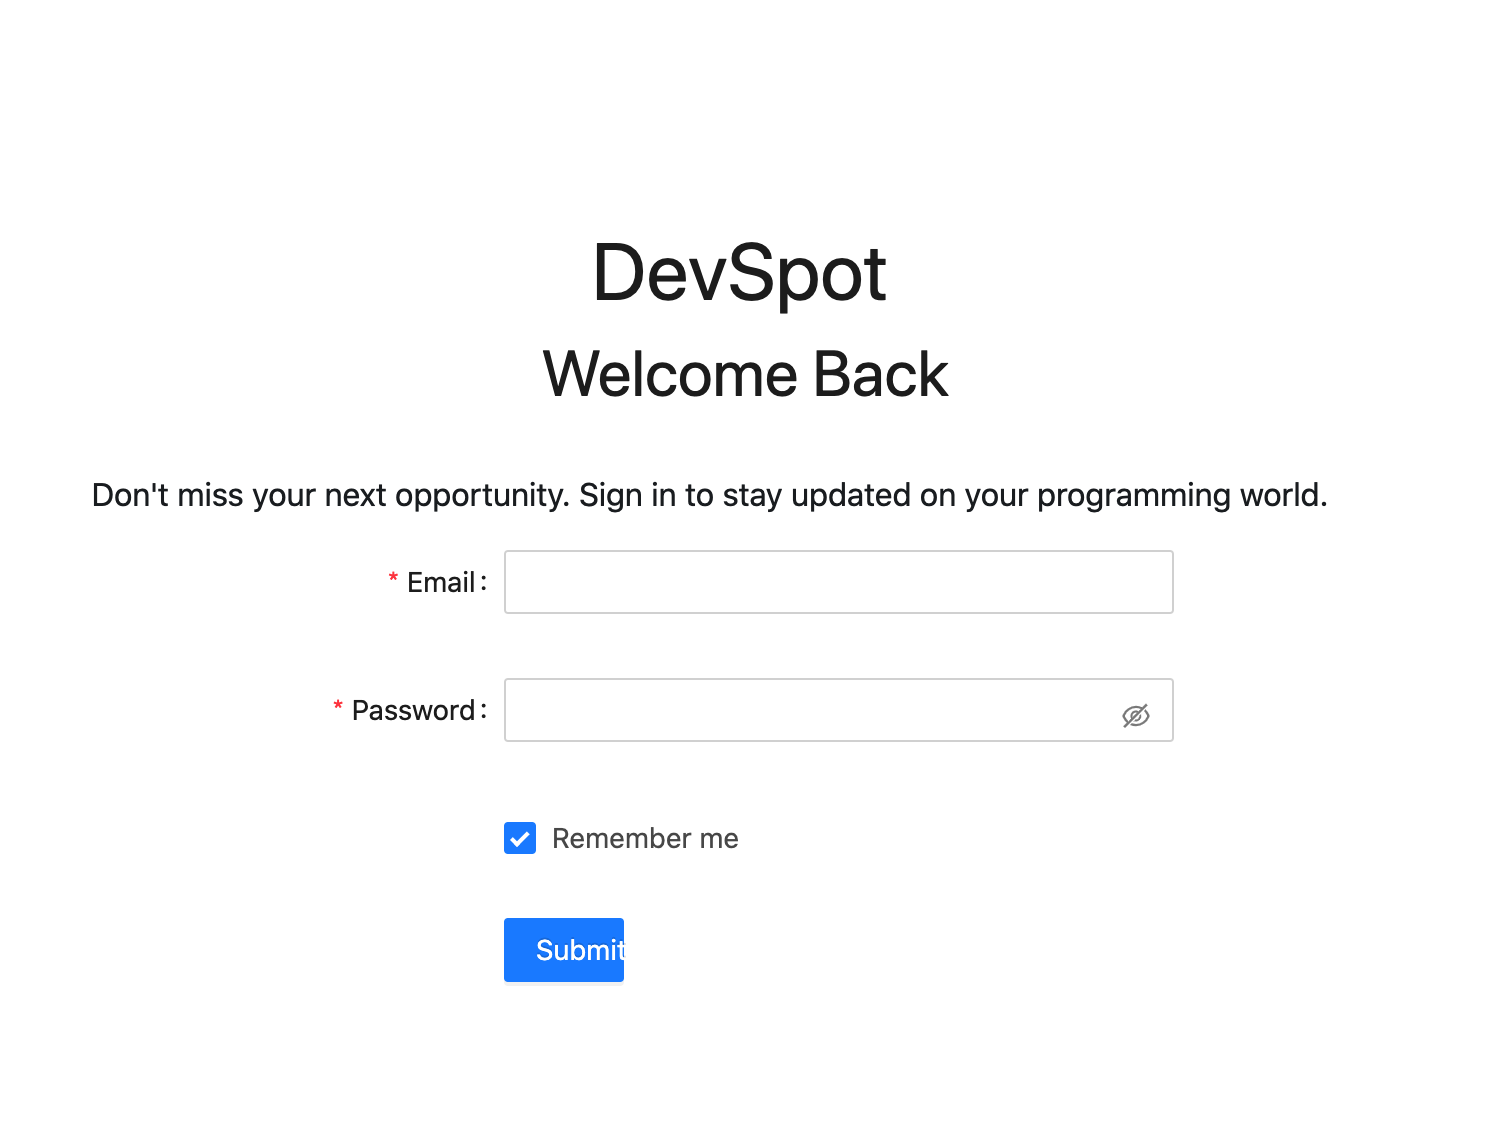
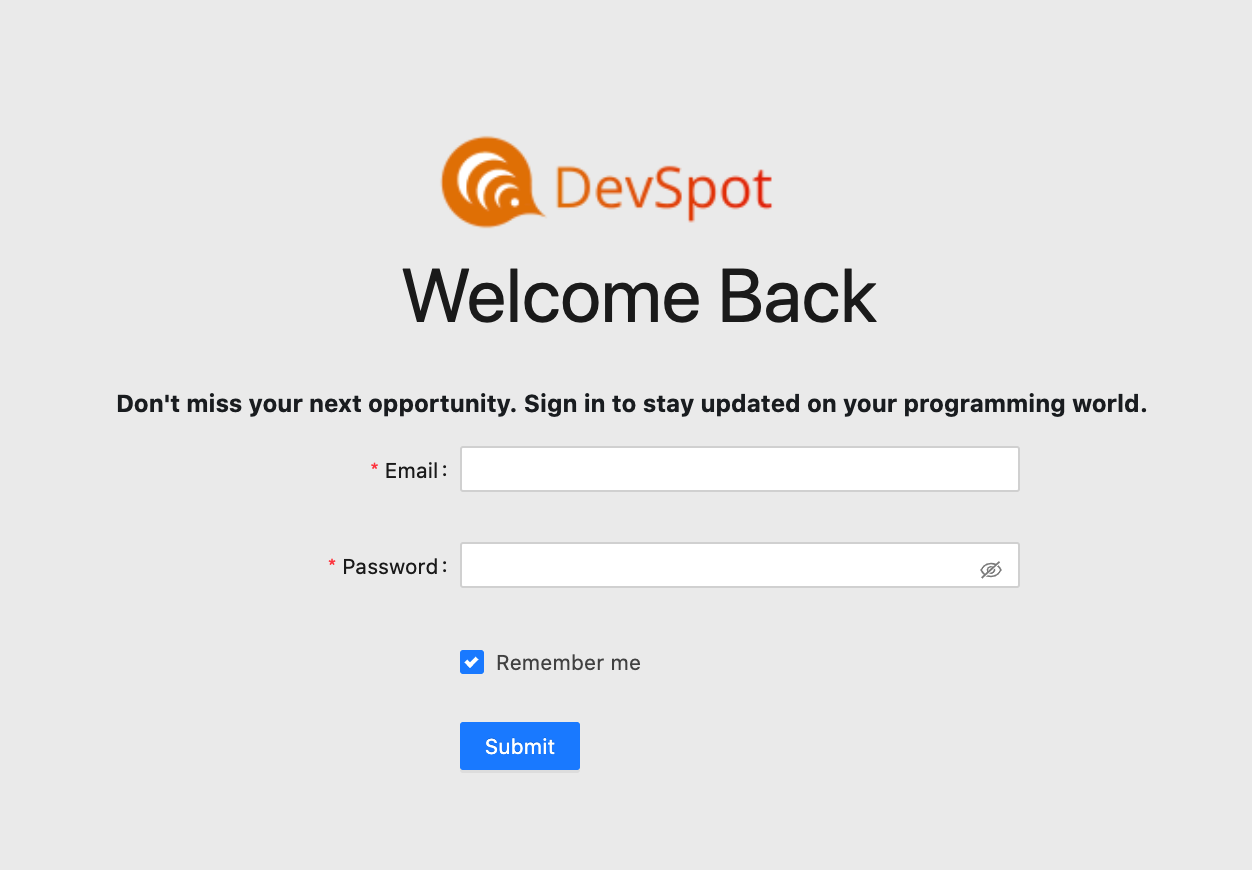
new

diff --git a/src/Component/HomePage/CSS/Overall.css b/src/Component/HomePage/CSS/Overall.css
@@ -2,14 +2,14 @@
   color: black;
 }
 .backgroundResume {
-  background-color: darkslategrey;
+  background-color: #7aa5d2;
   width: 100vw;
   max-height: 1800px;
 }
 .Resume {
   padding-top: 60px;
   font-size: -webkit-xxx-large;
-  color: rgb(255, 7, 110);
+  color: #47555e;
 }
 
 #card-image {
@@ -24,11 +24,19 @@
 #card-text {
   grid-area: text;
   justify-content: center;
+  font-size: 15px;
+}
+
+#card-text li {
+  grid-area: text;
+  text-align: left;
+  padding-right: 10px;
+  font-size: 16px;
 }
 
 #card-text #date {
-  color: rgb(255, 7, 110);
-  font-size: 13px;
+  color: #303841;
+  font-size: 18px;
 }
 
 #card-text p {
@@ -40,6 +48,8 @@
 #card-text h2 {
   margin-top: 5px;
   font-size: 28px;
+  color: #303841;
+  font-weight: bolder;
 }
 
 .allCards:hover {
@@ -50,7 +60,8 @@
 .Company {
   font-size: larger;
   font-weight: bolder;
-  color: rgb(255, 7, 110);
+  color: #303841;
+  padding-top: 30px;
 }
 
 .allCards {
@@ -62,22 +73,24 @@
 
   font-family: roboto;
   border-radius: 18px;
-  background: white;
+  background: #eeeeee;
   box-shadow: 5px 5px 15px rgba(0, 0, 0, 0.9);
   text-align: center;
   width: 450px;
-  height: 670px;
+  height: 700px;
   margin-top: 80px;
 
   transition: 0.5s ease;
   cursor: pointer;
+  margin-bottom: 50px;
 }
 
 .WholeCard {
   display: flex;
   flex-wrap: wrap;
   justify-content: space-evenly;
-  width: 93%;
+  padding-right: 10px;
+  padding-left: 10px;
 }
 
 .pushDateDown {
@@ -86,7 +99,7 @@
 
 .experience {
   font-size: 50px;
-  color: #f7fdb6;
+  color: #303841;
   text-align: center;
   padding-top: 30px;
 }

diff --git a/src/Component/HomePage/CSS/Projects.css b/src/Component/HomePage/CSS/Projects.css
@@ -1,6 +1,6 @@
 .backgroundProjects {
   width: 100vw;
-  background-color: #424141;
+  background-color: #eeeeee;
 }
 
 .backgroundProjects {
@@ -8,24 +8,24 @@
 
 .ProjectTitle {
   font-size: 50px;
-  color: #21825c;
+  color: #303841;
   text-align: center;
 }
 
 .DevSpotTitle {
-  font-size: 50px;
-  color: #21825c;
+  font-size: 30px;
+  color: #303841;
 }
 
 .howDevSpot {
   font-size: 35px;
   margin-bottom: 20px;
-  color: #21825c;
+  color: #303841;
 }
 
 .Portfolio {
-  font-size: 50px;
-  color: #21825c;
+  font-size: 30px;
+  color: #303841;
 }
 
 .DevSpot {
@@ -53,7 +53,7 @@
   font-size: 15px;
   justify-content: space-evenly;
   font-weight: bolder;
-  color: #21825c;
+  color: #303841;
 }
 
 .DevGroupDescription {
@@ -62,7 +62,7 @@
 .ProfileHow {
   font-size: 35px;
   margin-bottom: 10px;
-  color: #21825c;
+  color: #303841;
 }
 
 .portfolioImage {
@@ -83,5 +83,6 @@
   justify-content: space-evenly;
   width: 100%;
   font-size: 23px;
-  color: #a4d792;
+  color: #303841;
+  padding-bottom: 60px;
 }

diff --git a/src/Component/HomePage/CSS/SkillChart.css b/src/Component/HomePage/CSS/SkillChart.css
@@ -2,7 +2,7 @@
   font-family: roboto;
   text-align: center;
   width: 1019px;
-  height: 580px;
+  height: 480px;
   background-color: white;
   padding-left: 30px;
   padding-right: 60px;
@@ -13,7 +13,7 @@
 }
 
 .wrapeverything {
-  background-color: #424141;
+  background-color: #eeeeee;
   display: flex;
   align-items: center;
   flex-direction: column;
@@ -49,12 +49,12 @@
   left: 0;
   height: 25px;
   top: 0;
-  background-color: grey;
+  background-color: #eeeeee;
 }
 
 .line:after {
   content: "";
-  background: #a4d792;
+  background: #7aa5d2;
   height: 25px;
   transition: 0.8s;
   display: block;
@@ -106,8 +106,9 @@
 }
 
 .skillChartTitle {
+  padding-top: 30px;
   font-size: 50px;
-  color: #21825c;
+  color: #303841;
   justify-content: center;
   align-items: center;
   text-align: center;

diff --git a/src/Component/HomePage/CSS/About.css b/src/Component/HomePage/CSS/About.css
@@ -7,22 +7,22 @@
 
 .aboutMe {
   font-size: 50px;
-  color: #21825c;
+  color: #47555e;
   padding-top: 30px;
 }
 
 .aboutText {
-  max-width: 600px;
+  max-width: 700px;
   font-size: 20px;
-  color: #a4d792;
+  color: #47555e;
 }
 
 .aboutBackground {
   width: 100vw;
-  background-color: #424141;
+  background-color: #eeeeee;
   margin-top: -246px;
   max-height: 3000px;
-  height: 700px;
+  height: 800px;
 }
 
 .attributeContainer {
@@ -37,10 +37,13 @@
   flex-direction: column;
   justify-content: center;
   align-items: center;
+  margin-left: 20px;
+  margin-right: 20px;
 }
 
 .myAttributes p {
-  color: #a4d792;
+  color: #47555e;
+  font-size: 18px;
 }
 
 .icons {
@@ -90,7 +93,7 @@
   word-break: normal;
   margin-top: 10px;
   height: 30px;
-  color: #a4d792;
+  color: #47555e;
 }
 
 .maxheight {

diff --git a/src/Component/HomePage/CSS/SkillsSlider.css b/src/Component/HomePage/CSS/SkillsSlider.css
@@ -142,7 +142,7 @@
 
 .sliderBackground {
   padding-top: 30px;
-  background-color: rgb(24, 70, 70);
+  background-color: #7aa5d2;
   width: 100vw;
   height: 600px;
   display: flex;
@@ -151,7 +151,7 @@
 .frontendTools {
   text-align: center;
   padding-top: 200px;
-  color: #f7fdb6;
+  color: #303841;
 }
 
 .backendSliderDimensions {
@@ -166,9 +166,9 @@
 .SkillsTitle {
   text-align: center;
   font-size: 50px;
-  color: #f7fdb6;
+  color: #303841;
 }
 
 .backgroundAll {
-  background-color: rgb(24, 70, 70);
+  background-color: #7aa5d2;
 }

diff --git a/src/Component/HomePage/Introduction.js b/src/Component/HomePage/Introduction.js
@@ -11,7 +11,7 @@ class Introduction extends Component {
       <div className="banner">
         <video autoPlay muted loop id="video">
           <source
-            src="https://assets.mixkit.co/videos/preview/mixkit-matterhorn-mountain-landscape-4281-large.mp4"
+            src="https://assets.mixkit.co/videos/preview/mixkit-waves-crash-on-the-shore-1078-large.mp4"
             type="video/mp4"
             style={{ height: "100px" }}
           ></source>

diff --git a/src/Component/HomePage/Projects.js b/src/Component/HomePage/Projects.js
@@ -13,7 +13,7 @@ class Projects extends Component {
       <div className="backgroundProjects">
         <h1 className="ProjectTitle">Projects</h1>
         <div className="differentTitles">
-          <h1 className="DevSpotTitle">DevSpot</h1>
+          <h1 className="DevSpotTitle">Social Media App</h1>
           <h1 className="Portfolio">Portfolio</h1>
         </div>
         <div className="projectImages">

diff --git a/src/Component/HomePage/CSS/Weather.css b/src/Component/HomePage/CSS/Weather.css
@@ -1,5 +1,5 @@
 .weatherBackground {
-  background-color: darkslategrey;
+  background-color: #7aa5d2;
   width: 100vw;
   height: 500px;
   color: black;
@@ -30,14 +30,14 @@
 }
 
 .weatherLocatation {
-  color: #f7fdb6;
+  color: #303841;
   margin-bottom: 30px;
   text-align: center;
 }
 
 .weatherTitle {
   font-size: 50px;
-  color: #f7fdb6;
+  color: #303841;
   text-align: center;
 }
 

diff --git a/src/Component/HomePage/CSS/ContactForm.css b/src/Component/HomePage/CSS/ContactForm.css
@@ -38,12 +38,12 @@
 
 .ContactMeTitle {
   font-size: 50px;
-  color: #21825c;
+  color: #47555e;
   text-align: center;
 }
 
 .backgroundContactForm {
-  background-color: #424141;
+  background-color: #eeeeee;
   width: 100vw;
   height: 600px;
 }
